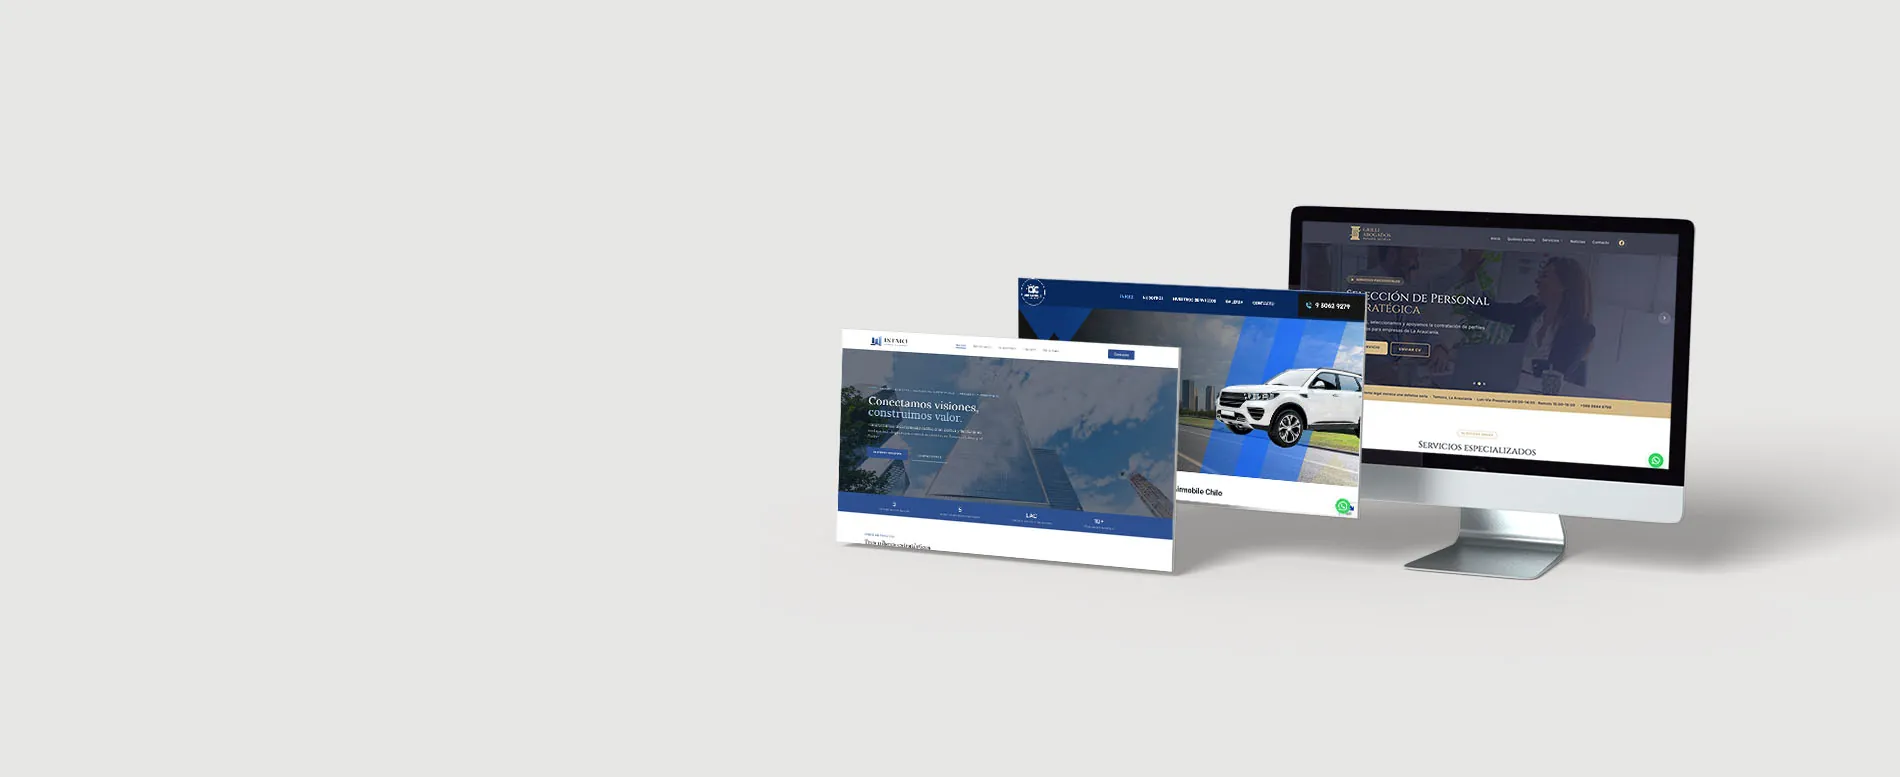
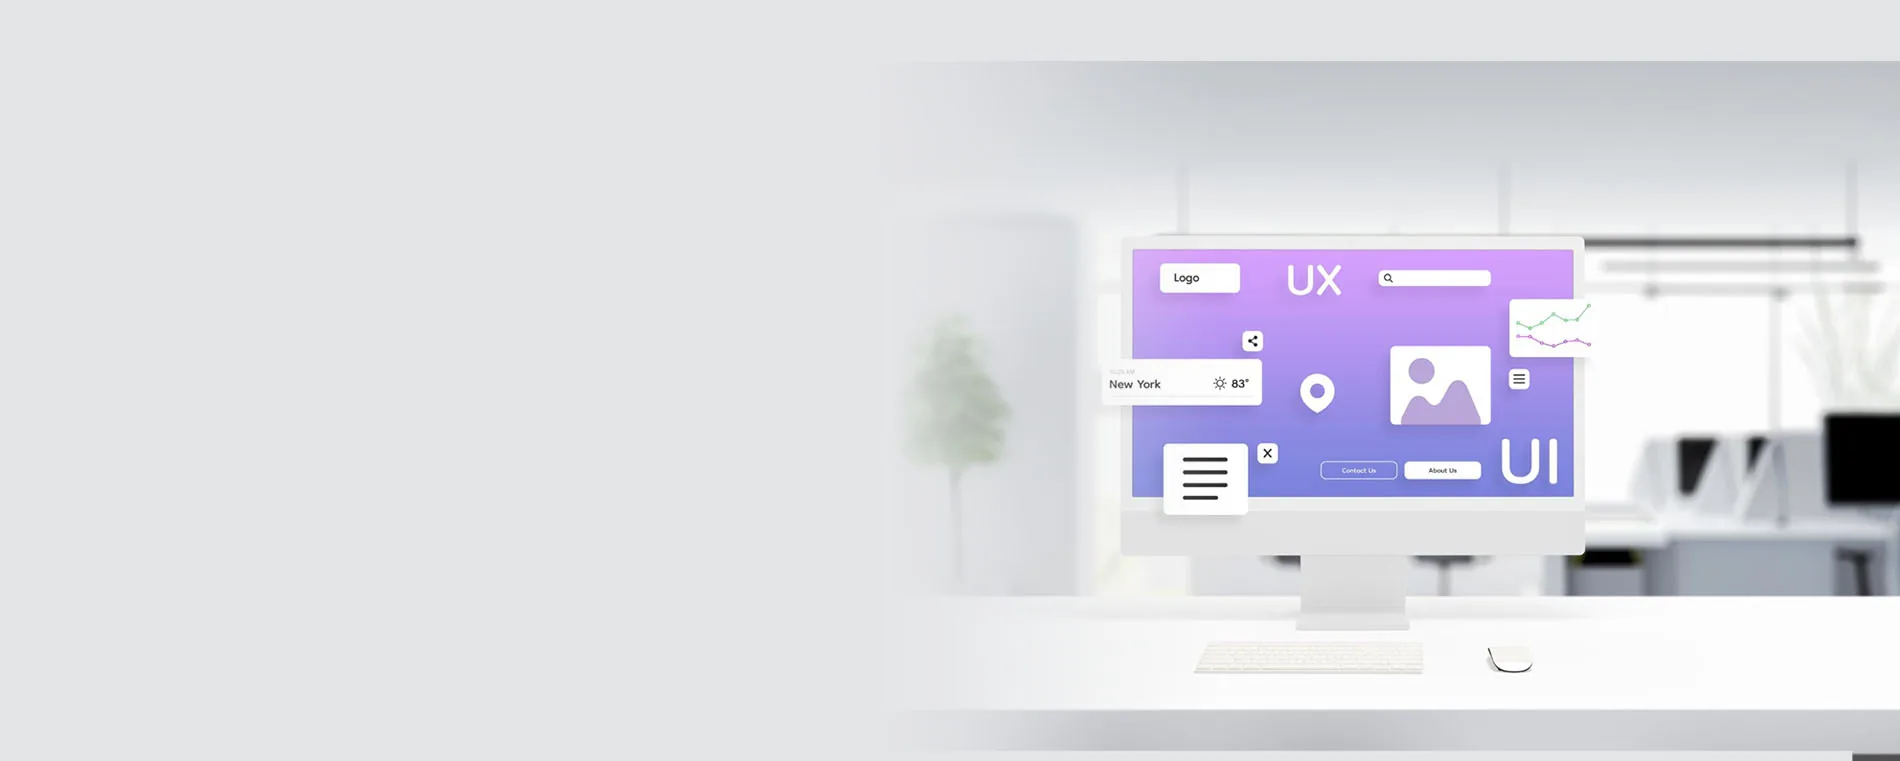
update: slider-desktop-3 en tercer slide

diff --git a/public/assets/css/hero-colors.css b/public/assets/css/hero-colors.css
@@ -5,7 +5,7 @@
 
 /* Estilos para el título principal en móvil */
 .hero-section .hero-content h1 {
-   color: #444f67 !important;
+   color: #004597 !important;
    font-size: 48px !important;
    font-weight: 600 !important;
    line-height: 1.15 !important;
@@ -75,7 +75,7 @@
 .hero-section .hero-content .swiper-slide:nth-child(2) h2,
 .hero-section .hero-content .swiper-slide:nth-child(3) h2,
 .hero-section .hero-content .swiper-slide:nth-child(4) h2 {
-   color: #444f67 !important;
+   color: #004597 !important;
    font-size: 48px !important;
    font-weight: 600 !important;
    line-height: 1.15 !important;
@@ -86,29 +86,33 @@
 /* Responsive específico para h2 de slides 2 y 3 */
 @media only screen and (min-width: 576px) {
    .hero-section .hero-content .swiper-slide:nth-child(2) h2,
-   .hero-section .hero-content .swiper-slide:nth-child(3) h2 {
+   .hero-section .hero-content .swiper-slide:nth-child(3) h2,
+   .hero-section .hero-content .swiper-slide:nth-child(4) h2 {
       font-size: 36px !important;
    }
 }
 
 @media only screen and (min-width: 768px) {
    .hero-section .hero-content .swiper-slide:nth-child(2) h2,
-   .hero-section .hero-content .swiper-slide:nth-child(3) h2 {
+   .hero-section .hero-content .swiper-slide:nth-child(3) h2,
+   .hero-section .hero-content .swiper-slide:nth-child(4) h2 {
       font-size: 47px !important;
    }
 }
 
 @media only screen and (min-width: 992px) {
    .hero-section .hero-content .swiper-slide:nth-child(2) h2,
-   .hero-section .hero-content .swiper-slide:nth-child(3) h2 {
-      font-size: 62px !important;
+   .hero-section .hero-content .swiper-slide:nth-child(3) h2,
+   .hero-section .hero-content .swiper-slide:nth-child(4) h2 {
+      font-size: 60px !important;
    }
 }
 
 @media only screen and (min-width: 1400px) {
    .hero-section .hero-content .swiper-slide:nth-child(2) h2,
-   .hero-section .hero-content .swiper-slide:nth-child(3) h2 {
-      font-size: 65px !important;
+   .hero-section .hero-content .swiper-slide:nth-child(3) h2,
+   .hero-section .hero-content .swiper-slide:nth-child(4) h2 {
+      font-size: 60px !important;
    }
 }
 
@@ -285,4 +289,20 @@ body .hero-section .hero-swiper .swiper-pagination.hero-pagination {
    font-size: 22px;
    color: #164597;
    font-weight: 400;
+}
+/* Slide 3: fondo claro en desktop, texto de descripción oscuro para contraste */
+@media only screen and (min-width: 992px) {
+   .hero-section .hero-content .swiper-slide:nth-child(3) p {
+      color: #2b3a55 !important;
+      text-shadow: none !important;
+   }
+}
+
+/* Desktop: texto sobre el título (subtítulo/h3) en azul corporativo */
+@media only screen and (min-width: 992px) {
+   .hero-section .hero-content .hero-subtitle,
+   .hero-section .hero-content h3 {
+      color: #004597 !important;
+      text-shadow: none !important;
+   }
 }
